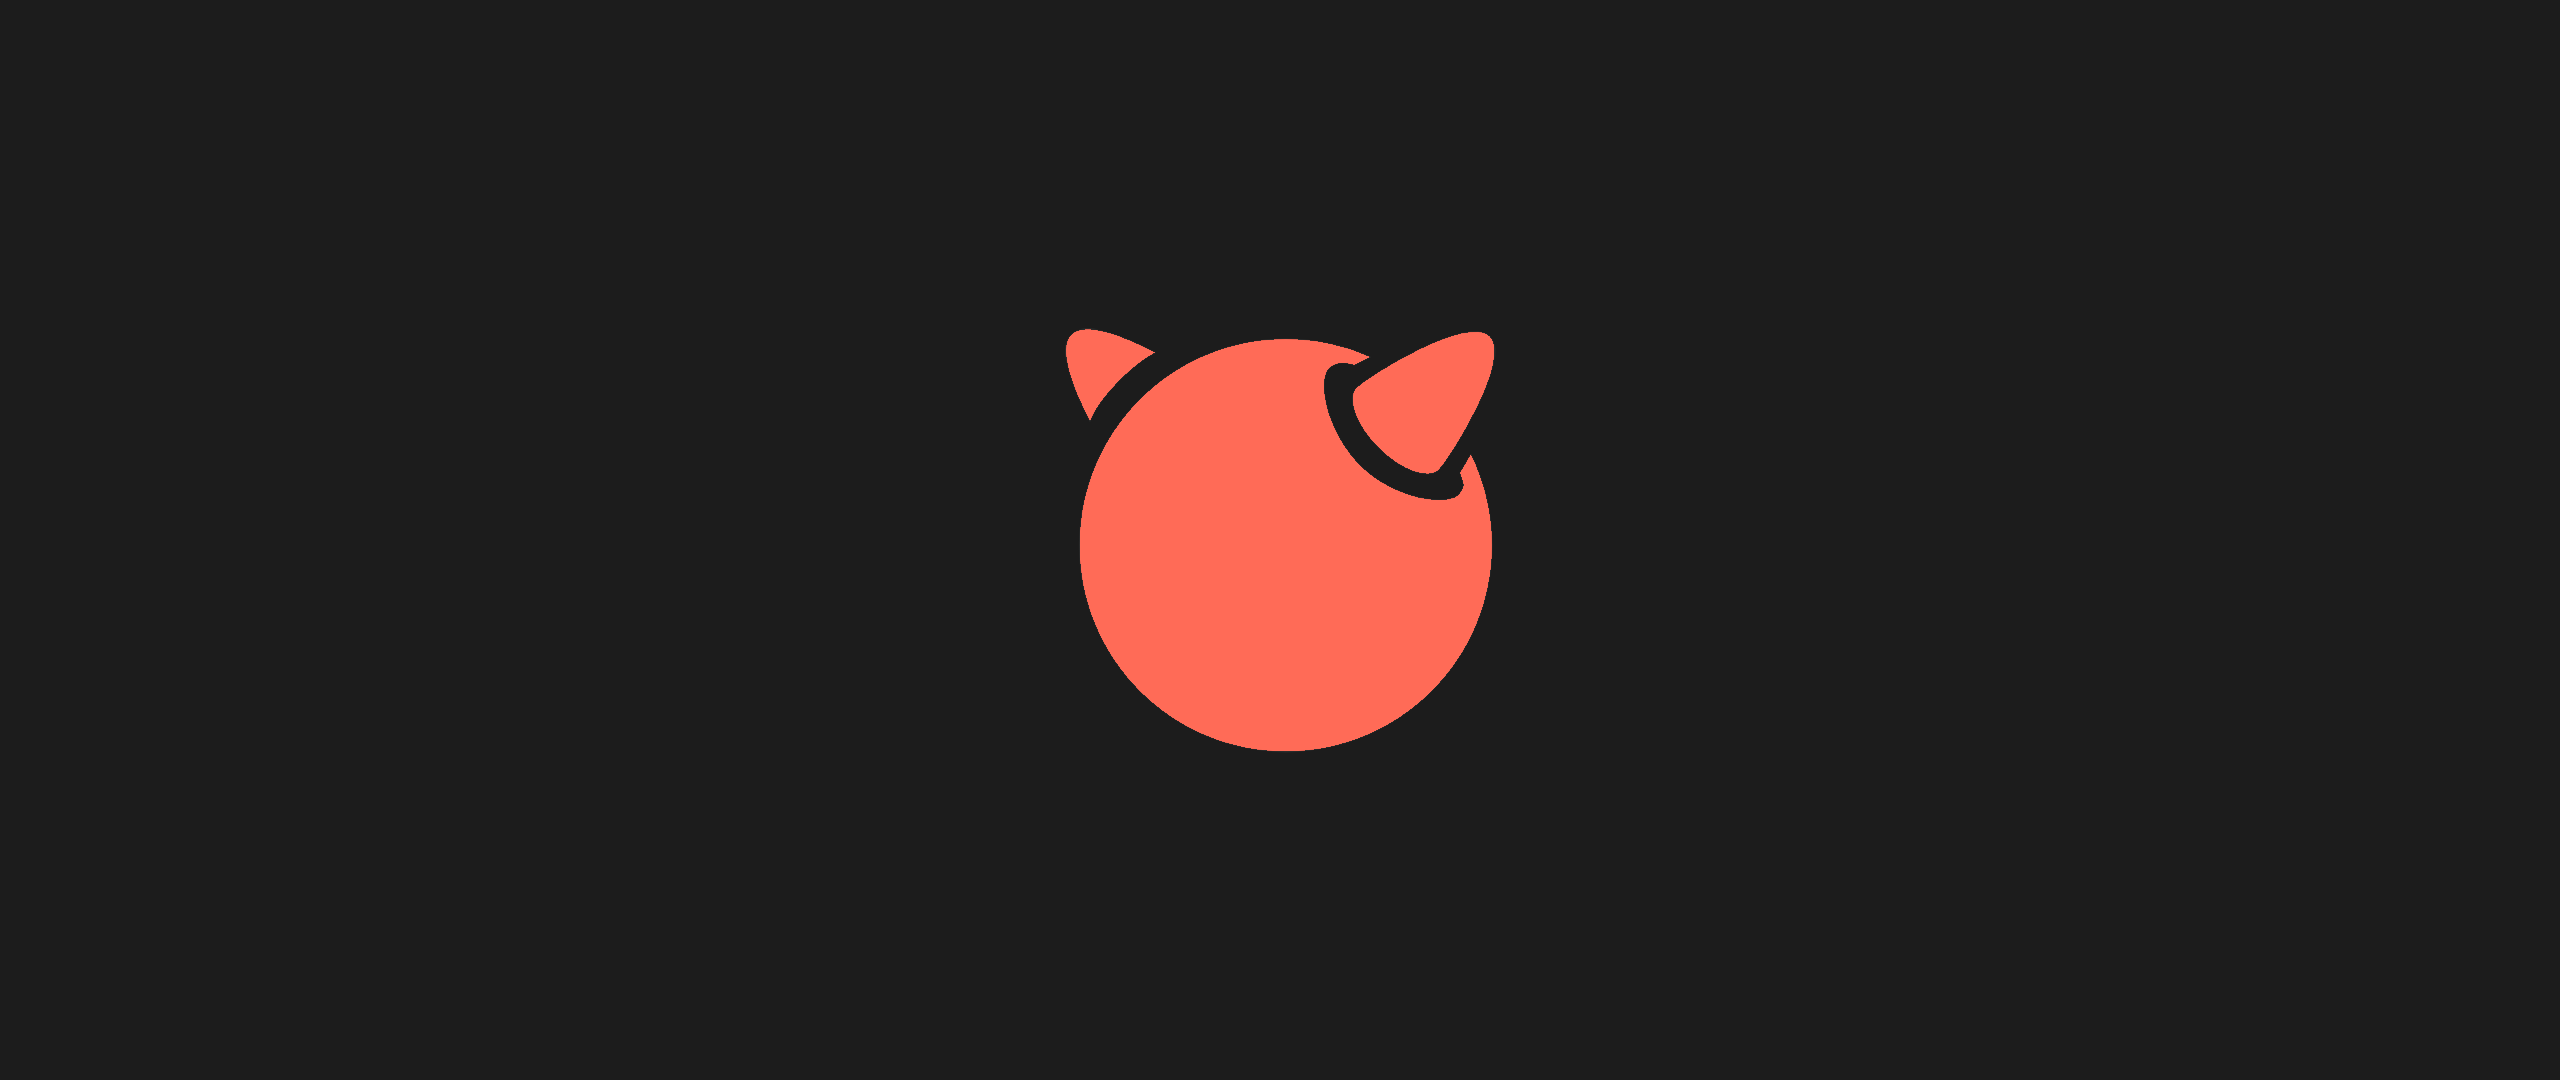
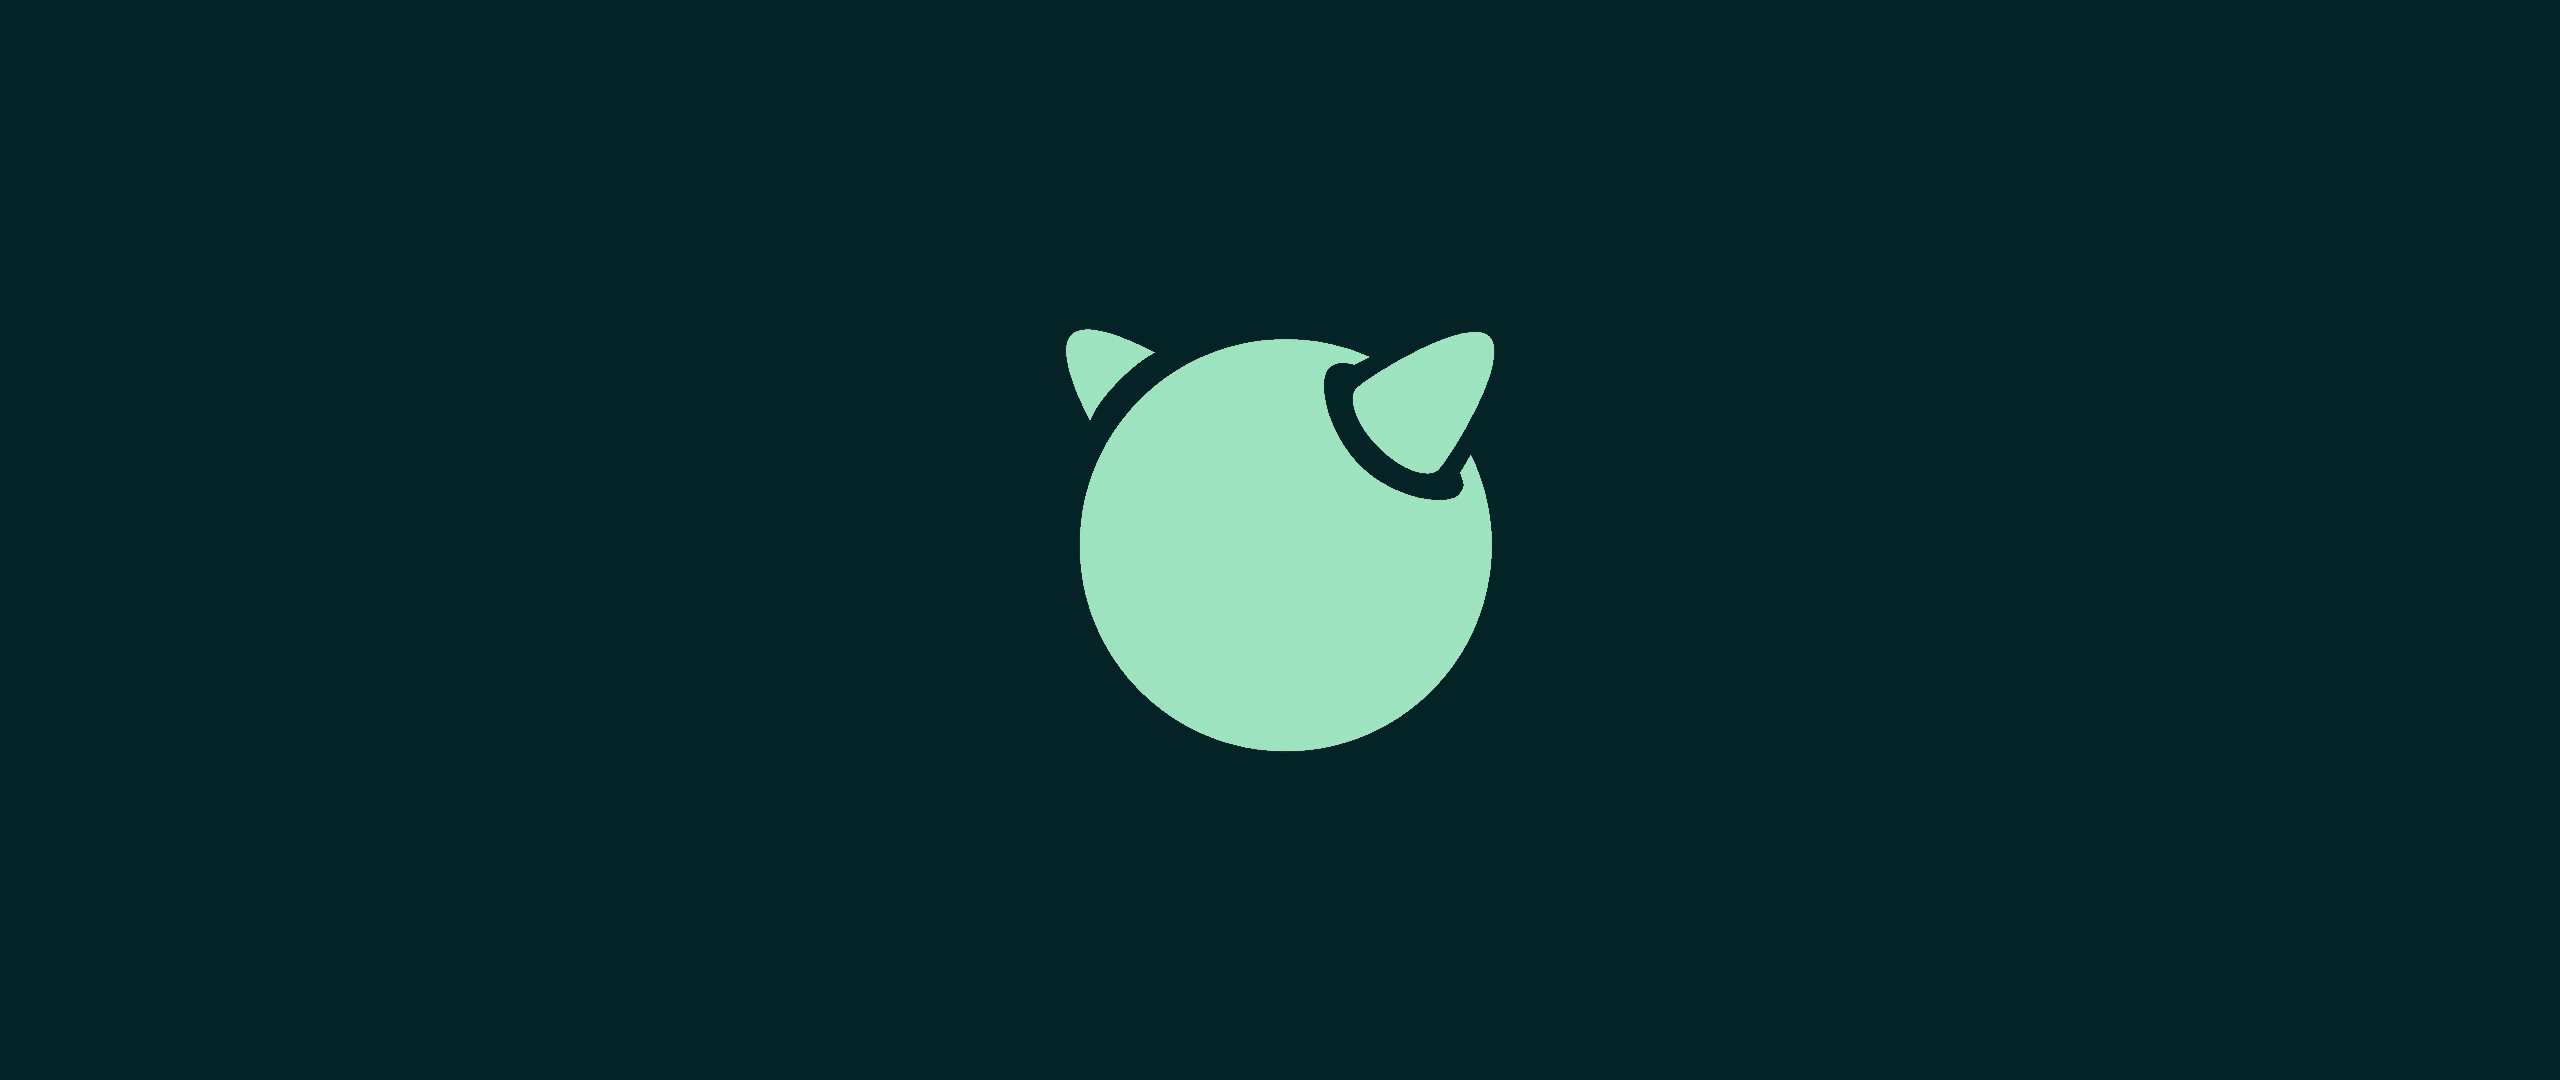
Update default background and theme

Changed region(s): [[0.4062, 0.3056, 0.5938, 0.7028]]

diff --git a/.suckless/themes/theme.h b/.suckless/themes/theme.h
@@ -6,4 +6,4 @@ typedef struct {
 	char font [255];
 } Theme;
 		     /* accent      bg         fg         border    font						      */ 
-static Theme theme = { "#FF6B47", "#1C1C1C", "#BBBBBB", "#444444", "Apercu Mono Pro:pixelsize=12:antialias=true:autohint=true" };
+static Theme theme = { "#9DE3C0", "#042327", "#BDB395", "#183538", "Apercu Mono Pro:pixelsize=12:antialias=true:autohint=true" };
